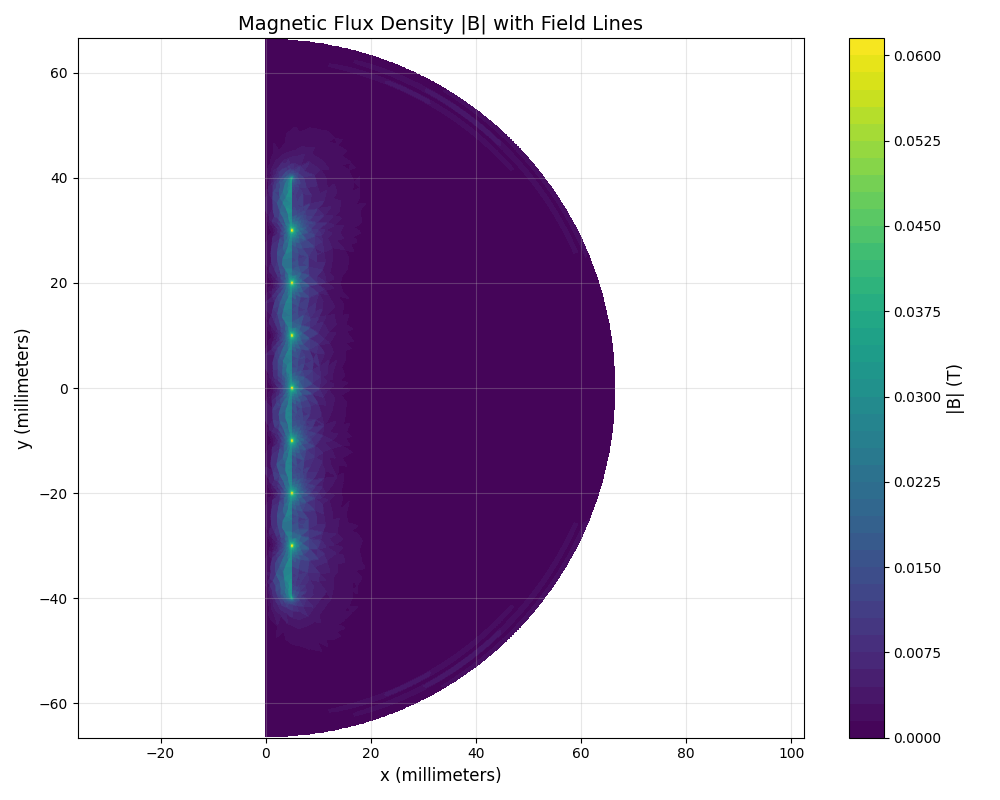
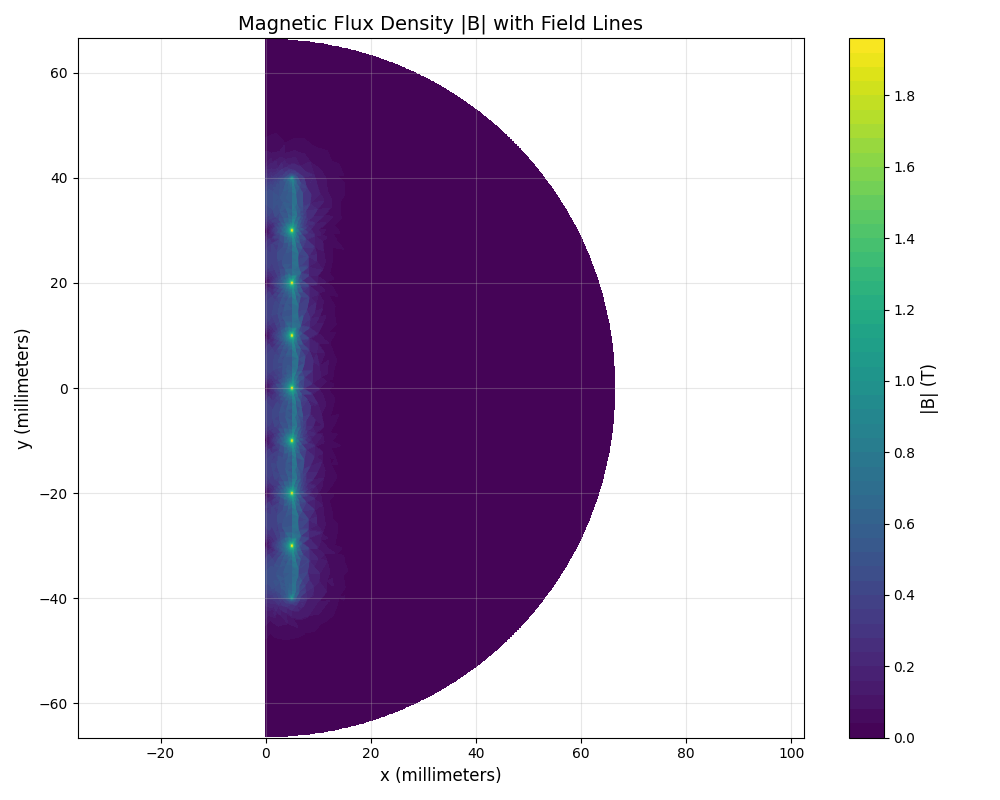
Updating hybrid model stuff

diff --git a/01_simulation/01_hybrid/main.py b/01_simulation/01_hybrid/main.py
@@ -22,7 +22,7 @@ data = Parser.open(ROOT_DIR / 'resources/model.ans')
 
 # Get the B field
 length_unit = data.length_unit
-x, y, bx, by = data.field_b()
+x, y, bx, by = data.b_field()
 
 # Calculate magnitude
 b_magnitude = np.sqrt(bx**2 + by**2)
